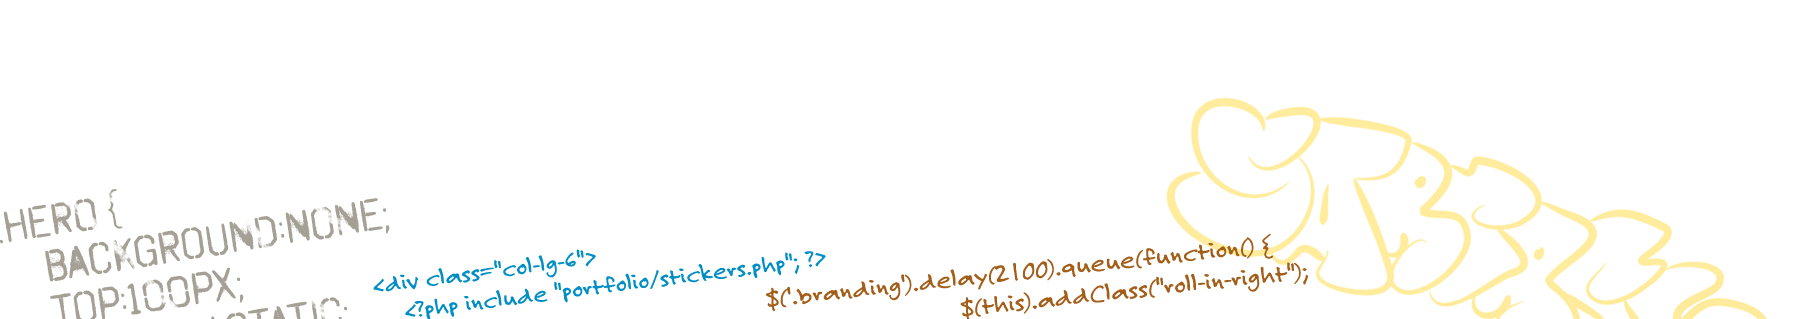
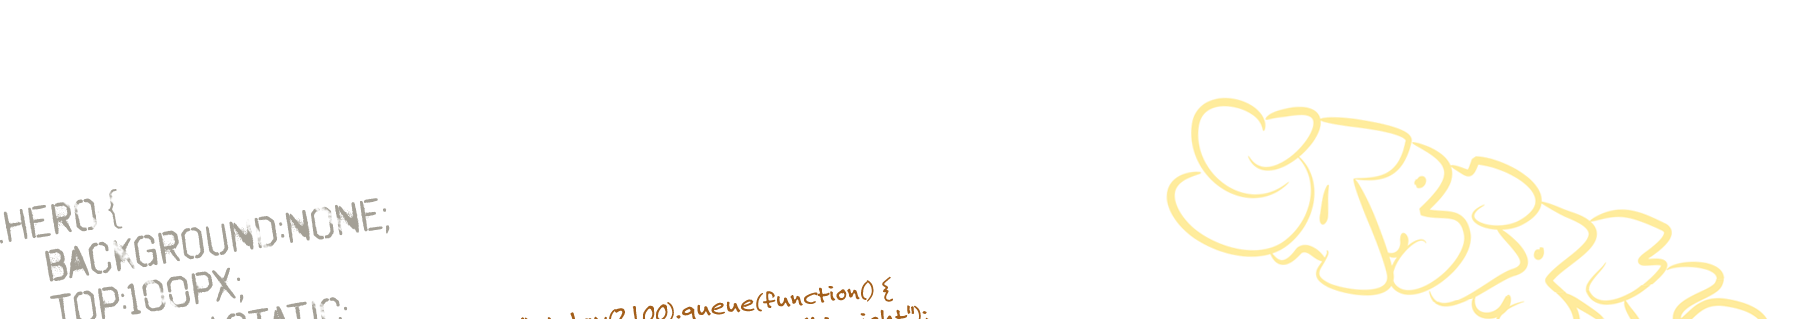
Edits
-Fixing issues found through the validator
-new urls for graffiti images

diff --git a/css/portfolio.css b/css/portfolio.css
@@ -4,7 +4,7 @@ html, body {
   font-family: "Montserrat", sans-serif;
   font-size: 17px;
   color: #35311C;
-  background: url("/img/images/graffiti_home_02.png") no-repeat center 94px/700px #fcfcf4;
+  background: url("https://res.cloudinary.com/jryandoherty/image/upload/v1670525303/graffiti_home_02_rxuvdz.png") no-repeat center 94px/700px #fcfcf4;
   /*scroll-behavior: smooth;*/
   /*image-rendering: -webkit-optimize-contrast;*/
 }
@@ -35,7 +35,7 @@ p.browsehappy {
 }
 
 .brick {
-  background: radial-gradient(circle, rgba(240, 109, 6, 0.14), transparent), url("https://res.cloudinary.com/jryandoherty/image/upload/v1670017100/graffiti_home_01_ut13fm.png") center bottom no-repeat, url("https://res.cloudinary.com/jryandoherty/image/upload/v1649268210/bg_brick_l0esqj.webp") center center no-repeat #211e18;
+  background: radial-gradient(circle, rgba(240, 109, 6, 0.14), transparent), url("https://res.cloudinary.com/jryandoherty/image/upload/v1670525303/graffiti_home_01_vblykt.png") center bottom no-repeat, url("https://res.cloudinary.com/jryandoherty/image/upload/v1649268210/bg_brick_l0esqj.webp") center center no-repeat #211e18;
   background-size: cover, 1410px, cover;
   overflow: hidden;
   color: #ffffff;
@@ -151,7 +151,7 @@ p.browsehappy {
 
 /* end brick section */
 .about-section {
-  background: url("https://res.cloudinary.com/jryandoherty/image/upload/v1670017100/graffiti_home_02_qajgxw.png") center top no-repeat;
+  background: url("https://res.cloudinary.com/jryandoherty/image/upload/v1670525303/graffiti_home_02_rxuvdz.png") center top no-repeat;
   background-size: 1410px;
   padding: 12% 5%;
 }
@@ -390,7 +390,7 @@ p.browsehappy {
 
 .contactme {
   padding: 10%;
-  background: url("/img/images/graffiti_bottom_01.png") no-repeat bottom center/1250px;
+  background: url("https://res.cloudinary.com/jryandoherty/image/upload/v1670525303/graffiti_bottom_01_wcsfde.png") no-repeat bottom center/1250px;
 }
 @media (max-width: 992px) {
   .contactme {
@@ -412,7 +412,7 @@ p.browsehappy {
 }
 
 footer {
-  background: url("/img/images/graffiti_bottom_02.png") no-repeat top center, url("https://res.cloudinary.com/jryandoherty/image/upload/v1649268210/bg_brick_l0esqj.webp") #211e18;
+  background: url("https://res.cloudinary.com/jryandoherty/image/upload/v1670525303/graffiti_bottom_02_ijass0.png") no-repeat top center, url("https://res.cloudinary.com/jryandoherty/image/upload/v1649268210/bg_brick_l0esqj.webp") #211e18;
   background-size: 1250px, cover;
   padding: 2% 0;
   color: #ffffff;
@@ -661,7 +661,7 @@ footer .branding {
 
 nav {
   padding: 15px;
-  background: radial-gradient(circle, rgba(240, 109, 6, 0.24), transparent), url("https://res.cloudinary.com/jryandoherty/image/upload/v1670017100/graffiti_home_01_ut13fm.png") center bottom no-repeat, url("https://res.cloudinary.com/jryandoherty/image/upload/v1649446471/brick_nav_iiyrf2.webp") #211e18;
+  background: radial-gradient(circle, rgba(240, 109, 6, 0.24), transparent), url("https://res.cloudinary.com/jryandoherty/image/upload/v1670525303/graffiti_home_01_vblykt.png") center bottom no-repeat, url("https://res.cloudinary.com/jryandoherty/image/upload/v1649446471/brick_nav_iiyrf2.webp") #211e18;
   background-size: cover, 700px, cover;
   border-radius: 0 !important;
   color: #ffffff;
@@ -897,7 +897,7 @@ input[type=checkbox]:focus {
 }
 
 .emails-container {
-  background: url("/img/images/graffiti_bottom_01.png") no-repeat bottom center/1250px;
+  background: url("https://res.cloudinary.com/jryandoherty/image/upload/v1670525303/graffiti_bottom_01_wcsfde.png") no-repeat bottom center/1250px;
   /*background:url('/img/triangleAsymmetrical.svg')no-repeat center 64px/100% $cream;*/
 }
 .emails-container .container {
@@ -988,7 +988,7 @@ input[type=checkbox]:focus {
 }
 
 .webpage-container {
-  background: url("/img/images/graffiti_bottom_01.png") no-repeat bottom center/1250px;
+  background: url("https://res.cloudinary.com/jryandoherty/image/upload/v1670525303/graffiti_bottom_01_wcsfde.png") no-repeat bottom center/1250px;
 }
 
 .webpage {

diff --git a/scss/portfolio.scss b/scss/portfolio.scss
@@ -6,7 +6,7 @@ html, body {
 	font-family: 'Montserrat', sans-serif;
 	font-size: 17px;
 	color:$black;
-	background:url('/img/images/graffiti_home_02.png')no-repeat center 94px/700px $cream;
+	background:url('https://res.cloudinary.com/jryandoherty/image/upload/v1670525303/graffiti_home_02_rxuvdz.png')no-repeat center 94px/700px $cream;
 
 
 
@@ -40,7 +40,7 @@ p.browsehappy{
 
 .brick {
 
-	background:radial-gradient(circle, rgba(240, 109, 6, .14), transparent),url('https://res.cloudinary.com/jryandoherty/image/upload/v1670017100/graffiti_home_01_ut13fm.png') center bottom no-repeat,
+	background:radial-gradient(circle, rgba(240, 109, 6, .14), transparent),url('https://res.cloudinary.com/jryandoherty/image/upload/v1670525303/graffiti_home_01_vblykt.png') center bottom no-repeat,
 	url('https://res.cloudinary.com/jryandoherty/image/upload/v1649268210/bg_brick_l0esqj.webp') center center no-repeat $altblack;
 	background-size:  cover,1410px,cover;
 	overflow:hidden;
@@ -163,7 +163,7 @@ p.browsehappy{
 }   /* end brick section */
 
 .about-section {
-	background:url('https://res.cloudinary.com/jryandoherty/image/upload/v1670017100/graffiti_home_02_qajgxw.png') center top no-repeat;
+	background:url('https://res.cloudinary.com/jryandoherty/image/upload/v1670525303/graffiti_home_02_rxuvdz.png') center top no-repeat;
 	background-size: 1410px;
 	padding:12% 5%;
 	@media(max-width:768px) {
@@ -431,7 +431,7 @@ p.browsehappy{
 .contactme {
 
 	padding:10%;
-	background:url('/img/images/graffiti_bottom_01.png')no-repeat bottom center/1250px;
+	background:url('https://res.cloudinary.com/jryandoherty/image/upload/v1670525303/graffiti_bottom_01_wcsfde.png')no-repeat bottom center/1250px;
 	@media (max-width:992px){
 		padding:10%;
 	}
@@ -461,7 +461,7 @@ p.browsehappy{
 
 
 footer {
-	background: url('/img/images/graffiti_bottom_02.png')no-repeat top center,url('https://res.cloudinary.com/jryandoherty/image/upload/v1649268210/bg_brick_l0esqj.webp') $altblack;
+	background: url('https://res.cloudinary.com/jryandoherty/image/upload/v1670525303/graffiti_bottom_02_ijass0.png')no-repeat top center,url('https://res.cloudinary.com/jryandoherty/image/upload/v1649268210/bg_brick_l0esqj.webp') $altblack;
 	background-size:  1250px,cover;
 	padding:2% 0;
 	color:$white;

diff --git a/scss/files/navigation.scss b/scss/files/navigation.scss
@@ -142,7 +142,7 @@
 
 nav {
 		padding:15px;
-		background: radial-gradient(circle, rgba(240, 109, 6, .24), transparent), url('https://res.cloudinary.com/jryandoherty/image/upload/v1670017100/graffiti_home_01_ut13fm.png') center bottom no-repeat, url('https://res.cloudinary.com/jryandoherty/image/upload/v1649446471/brick_nav_iiyrf2.webp') $altblack;
+		background: radial-gradient(circle, rgba(240, 109, 6, .24), transparent), url('https://res.cloudinary.com/jryandoherty/image/upload/v1670525303/graffiti_home_01_vblykt.png') center bottom no-repeat, url('https://res.cloudinary.com/jryandoherty/image/upload/v1649446471/brick_nav_iiyrf2.webp') $altblack;
 		background-size: cover, 700px, cover;
 		border-radius: 0!important;
 		color:$white;

diff --git a/scss/files/pages.scss b/scss/files/pages.scss
@@ -1,5 +1,5 @@
 .emails-container {
-	background:url('/img/images/graffiti_bottom_01.png')no-repeat bottom center/1250px;
+	background:url('https://res.cloudinary.com/jryandoherty/image/upload/v1670525303/graffiti_bottom_01_wcsfde.png')no-repeat bottom center/1250px;
 	/*background:url('/img/triangleAsymmetrical.svg')no-repeat center 64px/100% $cream;*/
 
 	.container {
@@ -103,7 +103,7 @@
 
 
 .webpage-container {
-	background:url('/img/images/graffiti_bottom_01.png')no-repeat bottom center/1250px;
+	background:url('https://res.cloudinary.com/jryandoherty/image/upload/v1670525303/graffiti_bottom_01_wcsfde.png')no-repeat bottom center/1250px;
 }
 
 

diff --git a/portfolio/navigation.php b/portfolio/navigation.php
@@ -19,7 +19,7 @@
       <li>
         <a href="https://www.linkedin.com/in/jrdoherty/" target="_blank">
           <svg viewBox="0 0 32 32" class="linkedIn">
-              <path id="linkedin" d="M26.22362,4H5.77133A1.75177,1.75177,0,0,0,3.99985,5.72983V26.26822A1.75294,1.75294,0,0,0,5.77133,28H26.22362a1.75631,1.75631,0,0,0,1.77653-1.73177V5.72983A1.75514,1.75514,0,0,0,26.22362,4ZM11.118,24.45115H7.55811V12.99771H11.118ZM9.33887,11.432a2.06388,2.06388,0,1,1,2.06281-2.06453A2.06444,2.06444,0,0,1,9.33887,11.432Zm15.112,13.01918h-3.5573V18.88134c0-1.32878-.02441-3.03719-1.84977-3.03719-1.85237,0-2.136,1.447-2.136,2.941v5.666H13.35058V12.99771h3.41471v1.56487h.04738a3.73973,3.73973,0,0,1,3.368-1.84993c3.60464,0,4.27018,2.37223,4.27018,5.456Z" />
+              <path d="M26.22362,4H5.77133A1.75177,1.75177,0,0,0,3.99985,5.72983V26.26822A1.75294,1.75294,0,0,0,5.77133,28H26.22362a1.75631,1.75631,0,0,0,1.77653-1.73177V5.72983A1.75514,1.75514,0,0,0,26.22362,4ZM11.118,24.45115H7.55811V12.99771H11.118ZM9.33887,11.432a2.06388,2.06388,0,1,1,2.06281-2.06453A2.06444,2.06444,0,0,1,9.33887,11.432Zm15.112,13.01918h-3.5573V18.88134c0-1.32878-.02441-3.03719-1.84977-3.03719-1.85237,0-2.136,1.447-2.136,2.941v5.666H13.35058V12.99771h3.41471v1.56487h.04738a3.73973,3.73973,0,0,1,3.368-1.84993c3.60464,0,4.27018,2.37223,4.27018,5.456Z" />
           </svg>
         </a>
       </li>
@@ -27,7 +27,7 @@
       <li>
         <a href="https://github.com/jryandoherty/" target="_blank">
           <svg viewBox="0 0 32 32" class="github">
-              <path id="github" d="M28,16.297a12.00154,12.00154,0,0,1-8.19942,11.38223c-.609.11718-.82514-.25609-.82514-.57691,0-.39338.01473-1.68736.01473-3.29126a2.86307,2.86307,0,0,0-.81468-2.22177c2.6733-.297,5.479-1.31121,5.479-5.92017A4.629,4.629,0,0,0,22.421,12.44971a4.30829,4.30829,0,0,0-.11941-3.17511s-1.0057-.3226-3.29666,1.2299a11.37652,11.37652,0,0,0-6.00842,0C10.70412,8.952,9.69658,9.2746,9.69658,9.2746a4.3144,4.3144,0,0,0-.11764,3.17511,4.6369,4.6369,0,0,0-1.23517,3.21937c0,4.59747,2.80132,5.62674,5.466,5.92952a2.56331,2.56331,0,0,0-.76186,1.60391,2.55528,2.55528,0,0,1-3.49232-.99687,2.52064,2.52064,0,0,0-1.83807-1.23639s-1.172-.01509-.08243.7293a3.1772,3.1772,0,0,1,1.33234,1.755s.70433,2.33328,4.04232,1.60826c.00582,1.00121.01621,1.7557.01621,2.04051,0,.31795-.219.68834-.819.57831A11.99877,11.99877,0,1,1,28,16.297Z" fill-rule="evenodd"/>
+              <path d="M28,16.297a12.00154,12.00154,0,0,1-8.19942,11.38223c-.609.11718-.82514-.25609-.82514-.57691,0-.39338.01473-1.68736.01473-3.29126a2.86307,2.86307,0,0,0-.81468-2.22177c2.6733-.297,5.479-1.31121,5.479-5.92017A4.629,4.629,0,0,0,22.421,12.44971a4.30829,4.30829,0,0,0-.11941-3.17511s-1.0057-.3226-3.29666,1.2299a11.37652,11.37652,0,0,0-6.00842,0C10.70412,8.952,9.69658,9.2746,9.69658,9.2746a4.3144,4.3144,0,0,0-.11764,3.17511,4.6369,4.6369,0,0,0-1.23517,3.21937c0,4.59747,2.80132,5.62674,5.466,5.92952a2.56331,2.56331,0,0,0-.76186,1.60391,2.55528,2.55528,0,0,1-3.49232-.99687,2.52064,2.52064,0,0,0-1.83807-1.23639s-1.172-.01509-.08243.7293a3.1772,3.1772,0,0,1,1.33234,1.755s.70433,2.33328,4.04232,1.60826c.00582,1.00121.01621,1.7557.01621,2.04051,0,.31795-.219.68834-.819.57831A11.99877,11.99877,0,1,1,28,16.297Z" fill-rule="evenodd"/>
             </svg>
           </a>
 
@@ -35,12 +35,12 @@
       <li>
         <a href="https://twitter.com/jryandoherty" target="_blank">
         <svg viewBox="0 0 32 32" class="twitter">
-            <path id="twitter" d="M26.32865,10.20428c.01043.22891.01043.45778.01043.6867A15.18194,15.18194,0,0,1,2.99214,23.68808a10.26487,10.26487,0,0,0,1.26929.07283A10.70029,10.70029,0,0,0,10.8889,21.472a5.33486,5.33486,0,0,1-4.9836-3.70387,5.36636,5.36636,0,0,0,2.40336-.09364,5.34632,5.34632,0,0,1-4.2761-5.23331v-.07283a5.39627,5.39627,0,0,0,2.41374.6659A5.35659,5.35659,0,0,1,4.79205,5.90738,15.1498,15.1498,0,0,0,15.78924,11.484a5.89821,5.89821,0,0,1-.13524-1.21727,5.33642,5.33642,0,0,1,9.22847-3.65189,10.61188,10.61188,0,0,0,3.3918-1.2901A5.368,5.368,0,0,1,25.9229,8.27951a10.81127,10.81127,0,0,0,3.06924-.84274A10.868,10.868,0,0,1,26.32865,10.20428Z" />
+            <path d="M26.32865,10.20428c.01043.22891.01043.45778.01043.6867A15.18194,15.18194,0,0,1,2.99214,23.68808a10.26487,10.26487,0,0,0,1.26929.07283A10.70029,10.70029,0,0,0,10.8889,21.472a5.33486,5.33486,0,0,1-4.9836-3.70387,5.36636,5.36636,0,0,0,2.40336-.09364,5.34632,5.34632,0,0,1-4.2761-5.23331v-.07283a5.39627,5.39627,0,0,0,2.41374.6659A5.35659,5.35659,0,0,1,4.79205,5.90738,15.1498,15.1498,0,0,0,15.78924,11.484a5.89821,5.89821,0,0,1-.13524-1.21727,5.33642,5.33642,0,0,1,9.22847-3.65189,10.61188,10.61188,0,0,0,3.3918-1.2901A5.368,5.368,0,0,1,25.9229,8.27951a10.81127,10.81127,0,0,0,3.06924-.84274A10.868,10.868,0,0,1,26.32865,10.20428Z" />
         </svg>
       </a>
 
       </li>
-    
+
       <li>
         <a href="https://www.flickr.com/photos/jryandoherty/" target="_blank">
           <svg viewBox="0 0 333333 333333" shape-rendering="geometricPrecision" text-rendering="geometricPrecision" image-rendering="optimizeQuality" fill-rule="evenodd" clip-rule="evenodd" class="flickr"><path d="M187501 166667c0-40270 32654-72915 72915-72915 40276 0 72917 32646 72917 72915 0 40262-32640 72915-72915 72915-40261 0-72915-32654-72915-72915h-2z" fill="#ff0084"/><path d="M0 166667c0-40270 32640-72915 72915-72915 40261 0 72915 32648 72915 72915 0 40262-32654 72915-72915 72915C32641 239582 0 206928 0 166667z" /></svg>

diff --git a/portfolio/sites/louis_mian.php b/portfolio/sites/louis_mian.php
@@ -28,15 +28,15 @@ require("../header.php");
         <li><strong>Theme:</strong> Septera</li>
         <li><a href="https://github.com/jryandoherty/louismian" target="_blank"><svg viewBox="0 0 32 32" class="github">
             <path id="github" d="M28,16.297a12.00154,12.00154,0,0,1-8.19942,11.38223c-.609.11718-.82514-.25609-.82514-.57691,0-.39338.01473-1.68736.01473-3.29126a2.86307,2.86307,0,0,0-.81468-2.22177c2.6733-.297,5.479-1.31121,5.479-5.92017A4.629,4.629,0,0,0,22.421,12.44971a4.30829,4.30829,0,0,0-.11941-3.17511s-1.0057-.3226-3.29666,1.2299a11.37652,11.37652,0,0,0-6.00842,0C10.70412,8.952,9.69658,9.2746,9.69658,9.2746a4.3144,4.3144,0,0,0-.11764,3.17511,4.6369,4.6369,0,0,0-1.23517,3.21937c0,4.59747,2.80132,5.62674,5.466,5.92952a2.56331,2.56331,0,0,0-.76186,1.60391,2.55528,2.55528,0,0,1-3.49232-.99687,2.52064,2.52064,0,0,0-1.83807-1.23639s-1.172-.01509-.08243.7293a3.1772,3.1772,0,0,1,1.33234,1.755s.70433,2.33328,4.04232,1.60826c.00582,1.00121.01621,1.7557.01621,2.04051,0,.31795-.219.68834-.819.57831A11.99877,11.99877,0,1,1,28,16.297Z" fill-rule="evenodd"/>
-        Code</a></li>
+        </svg></a></li>
         <li><a href="https://www.louismian.com" target="_blank">Full site</a></li>
-        <p>Wordpress site for natural stone fabricator Louis W. Mian, inc.</p>
       </ul>
+      <p>Wordpress site for natural stone fabricator Louis W. Mian, inc.</p>
     </div>
   </div>
   <div class="col-lg-6">
     <picture>
-       <source srcset="" type="image/webp" class="three-screens">
+       <source srcset="https://res.cloudinary.com/jryandoherty/image/upload/v1670536205/mian_mohi6h.webp" type="image/webp" class="three-screens">
        <img src="https://res.cloudinary.com/jryandoherty/image/upload/v1597339298/mian_htv1gt.jpg" alt="three screens" class="three-screens">
     </picture>
   </div>

diff --git a/portfolio/conversion/hornet.php b/portfolio/conversion/hornet.php
@@ -27,7 +27,7 @@ require("../header.php");
         <li><strong>Date:</strong> 2016</li>
         <li><a href="https://github.com/jryandoherty/hornet" target="_blank"><svg viewBox="0 0 32 32" class="github">
             <path id="github" d="M28,16.297a12.00154,12.00154,0,0,1-8.19942,11.38223c-.609.11718-.82514-.25609-.82514-.57691,0-.39338.01473-1.68736.01473-3.29126a2.86307,2.86307,0,0,0-.81468-2.22177c2.6733-.297,5.479-1.31121,5.479-5.92017A4.629,4.629,0,0,0,22.421,12.44971a4.30829,4.30829,0,0,0-.11941-3.17511s-1.0057-.3226-3.29666,1.2299a11.37652,11.37652,0,0,0-6.00842,0C10.70412,8.952,9.69658,9.2746,9.69658,9.2746a4.3144,4.3144,0,0,0-.11764,3.17511,4.6369,4.6369,0,0,0-1.23517,3.21937c0,4.59747,2.80132,5.62674,5.466,5.92952a2.56331,2.56331,0,0,0-.76186,1.60391,2.55528,2.55528,0,0,1-3.49232-.99687,2.52064,2.52064,0,0,0-1.83807-1.23639s-1.172-.01509-.08243.7293a3.1772,3.1772,0,0,1,1.33234,1.755s.70433,2.33328,4.04232,1.60826c.00582,1.00121.01621,1.7557.01621,2.04051,0,.31795-.219.68834-.819.57831A11.99877,11.99877,0,1,1,28,16.297Z" fill-rule="evenodd"/>
-        Code</a></li>
+        </a></li>
       </ul>
       <p>Construction themed conversion page. This page was the final step in a marketing campaign starting with a promotional email sent to potential customers in the construction business. The email would direct users either to a portal page, or directly to the conversion page.</p>
     </div>

diff --git a/portfolio/conversion/construction_portal.php b/portfolio/conversion/construction_portal.php
@@ -25,9 +25,9 @@ require("../header.php");
         <li>Date: April 2016</li>
         <li><a href="https://github.com/jryandoherty/construction" target="_blank"><svg viewBox="0 0 32 32" class="github">
             <path id="github" d="M28,16.297a12.00154,12.00154,0,0,1-8.19942,11.38223c-.609.11718-.82514-.25609-.82514-.57691,0-.39338.01473-1.68736.01473-3.29126a2.86307,2.86307,0,0,0-.81468-2.22177c2.6733-.297,5.479-1.31121,5.479-5.92017A4.629,4.629,0,0,0,22.421,12.44971a4.30829,4.30829,0,0,0-.11941-3.17511s-1.0057-.3226-3.29666,1.2299a11.37652,11.37652,0,0,0-6.00842,0C10.70412,8.952,9.69658,9.2746,9.69658,9.2746a4.3144,4.3144,0,0,0-.11764,3.17511,4.6369,4.6369,0,0,0-1.23517,3.21937c0,4.59747,2.80132,5.62674,5.466,5.92952a2.56331,2.56331,0,0,0-.76186,1.60391,2.55528,2.55528,0,0,1-3.49232-.99687,2.52064,2.52064,0,0,0-1.83807-1.23639s-1.172-.01509-.08243.7293a3.1772,3.1772,0,0,1,1.33234,1.755s.70433,2.33328,4.04232,1.60826c.00582,1.00121.01621,1.7557.01621,2.04051,0,.31795-.219.68834-.819.57831A11.99877,11.99877,0,1,1,28,16.297Z" fill-rule="evenodd"/>
-        Code</a></li>
-        <p>Portal page for Buyerzone.com's construction category conversion pages.</p>
+        </a></li>
       </ul>
+      <p>Portal page for Buyerzone.com's construction category conversion pages.</p>
     </div>
 
     <picture>

diff --git a/portfolio/sites/roger_buttles.php b/portfolio/sites/roger_buttles.php
@@ -25,7 +25,7 @@ require("../header.php");
       <li><a href="https://www.rogerbuttles.com" target="_blank">Full site</a></li>
       <li><a href="https://github.com/jryandoherty/rogerbuttles" target="_blank"><svg viewBox="0 0 32 32" class="github">
           <path id="github" d="M28,16.297a12.00154,12.00154,0,0,1-8.19942,11.38223c-.609.11718-.82514-.25609-.82514-.57691,0-.39338.01473-1.68736.01473-3.29126a2.86307,2.86307,0,0,0-.81468-2.22177c2.6733-.297,5.479-1.31121,5.479-5.92017A4.629,4.629,0,0,0,22.421,12.44971a4.30829,4.30829,0,0,0-.11941-3.17511s-1.0057-.3226-3.29666,1.2299a11.37652,11.37652,0,0,0-6.00842,0C10.70412,8.952,9.69658,9.2746,9.69658,9.2746a4.3144,4.3144,0,0,0-.11764,3.17511,4.6369,4.6369,0,0,0-1.23517,3.21937c0,4.59747,2.80132,5.62674,5.466,5.92952a2.56331,2.56331,0,0,0-.76186,1.60391,2.55528,2.55528,0,0,1-3.49232-.99687,2.52064,2.52064,0,0,0-1.83807-1.23639s-1.172-.01509-.08243.7293a3.1772,3.1772,0,0,1,1.33234,1.755s.70433,2.33328,4.04232,1.60826c.00582,1.00121.01621,1.7557.01621,2.04051,0,.31795-.219.68834-.819.57831A11.99877,11.99877,0,1,1,28,16.297Z" fill-rule="evenodd"/>
-      Code</a></li>
+      </a></li>
     </ul>
       <p>Portfolio site for artist Roger Buttles.</p>
   </div>

diff --git a/portfolio/sites/grab_cad_blog.php b/portfolio/sites/grab_cad_blog.php
@@ -15,7 +15,7 @@ require("../header.php");
   </div> <!--end breadcrumb row -->
 
 <div class="row">
-    <object data="https://blog.grabcad.com/" type=""></object>
+    <object data="https://blog.grabcad.com/"></object>
 </div><!-- end row -->
 
 <div class="row">
@@ -38,7 +38,7 @@ require("../header.php");
   </div>
   <div class="col-lg-6">
     <picture>
-       <source srcset="" type="image/webp" class="three-screens">
+       <source srcset="https://res.cloudinary.com/jryandoherty/image/upload/v1670535741/grabcad_fd6fki.webp" type="image/webp" class="three-screens">
        <img src="https://res.cloudinary.com/jryandoherty/image/upload/v1596128951/grabcad_ae6x58.jpg" alt="three screens" class="three-screens">
     </picture>
   </div>

diff --git a/portfolio/header.php b/portfolio/header.php
@@ -11,7 +11,7 @@
     <link rel="preconnect" href="https://fonts.gstatic.com" crossorigin>
     <link href="https://fonts.googleapis.com/css2?family=Montserrat&family=Oswald:wght@500&display=swap" rel="stylesheet">
     <link rel="stylesheet" href="//maxcdn.bootstrapcdn.com/bootstrap/3.3.7/css/bootstrap.min.css" integrity="sha384-BVYiiSIFeK1dGmJRAkycuHAHRg32OmUcww7on3RYdg4Va+PmSTsz/K68vbdEjh4u" crossorigin="anonymous">
-    <link rel="stylesheet" href="/css/portfolio.css?v=20301343">
+    <link rel="stylesheet" href="/css/portfolio.css?v=2030132">
 
     <title>J. Ryan Doherty :: <?php echo $title; ?></title>
 

diff --git a/index.php b/index.php
@@ -12,7 +12,7 @@
   <link rel="preconnect" href="https://fonts.gstatic.com" crossorigin>
   <link href="https://fonts.googleapis.com/css2?family=Montserrat&family=Oswald:wght@500&display=swap" rel="stylesheet">
   <link rel="stylesheet" href="//maxcdn.bootstrapcdn.com/bootstrap/3.3.7/css/bootstrap.min.css" integrity="sha384-BVYiiSIFeK1dGmJRAkycuHAHRg32OmUcww7on3RYdg4Va+PmSTsz/K68vbdEjh4u" crossorigin="anonymous">
-  <link rel="stylesheet" href="css/portfolio.css?v=34343585">
+  <link rel="stylesheet" href="css/portfolio.css?v=34343581">
 
   <title>J. Ryan Doherty :: Designer and Developer</title>
 
